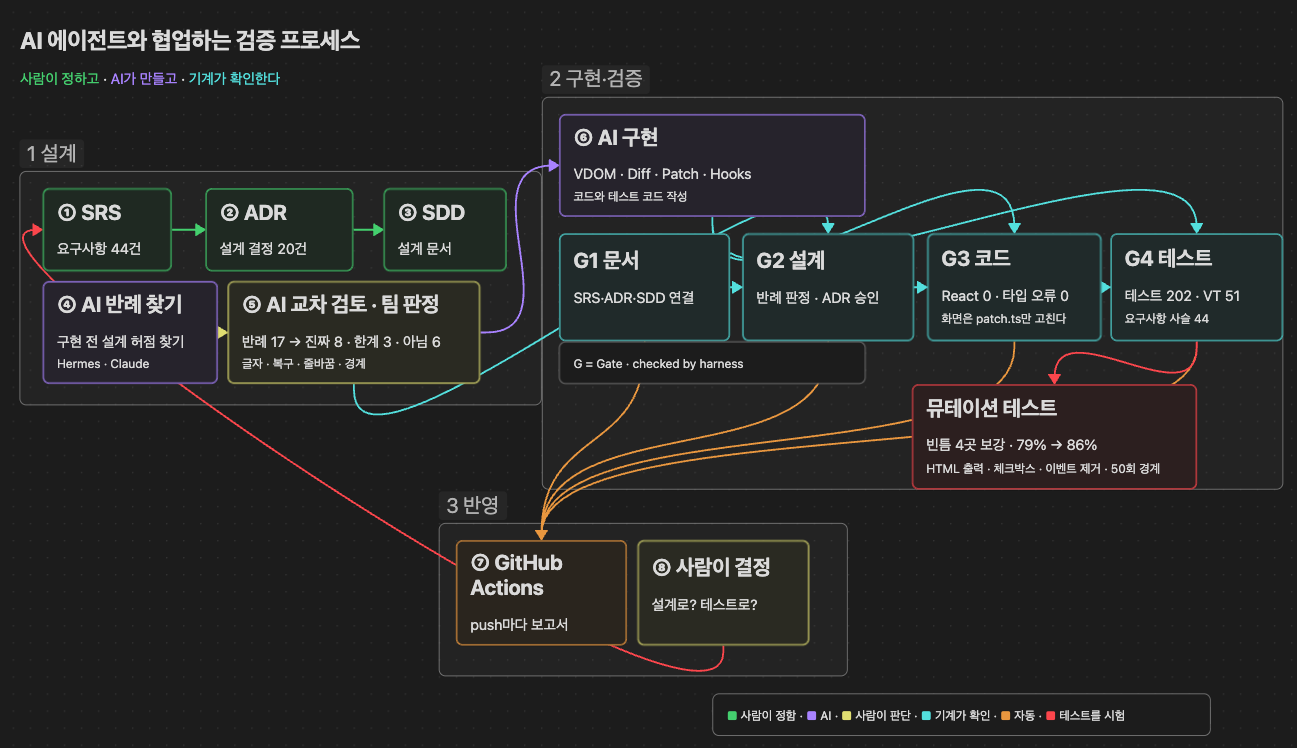
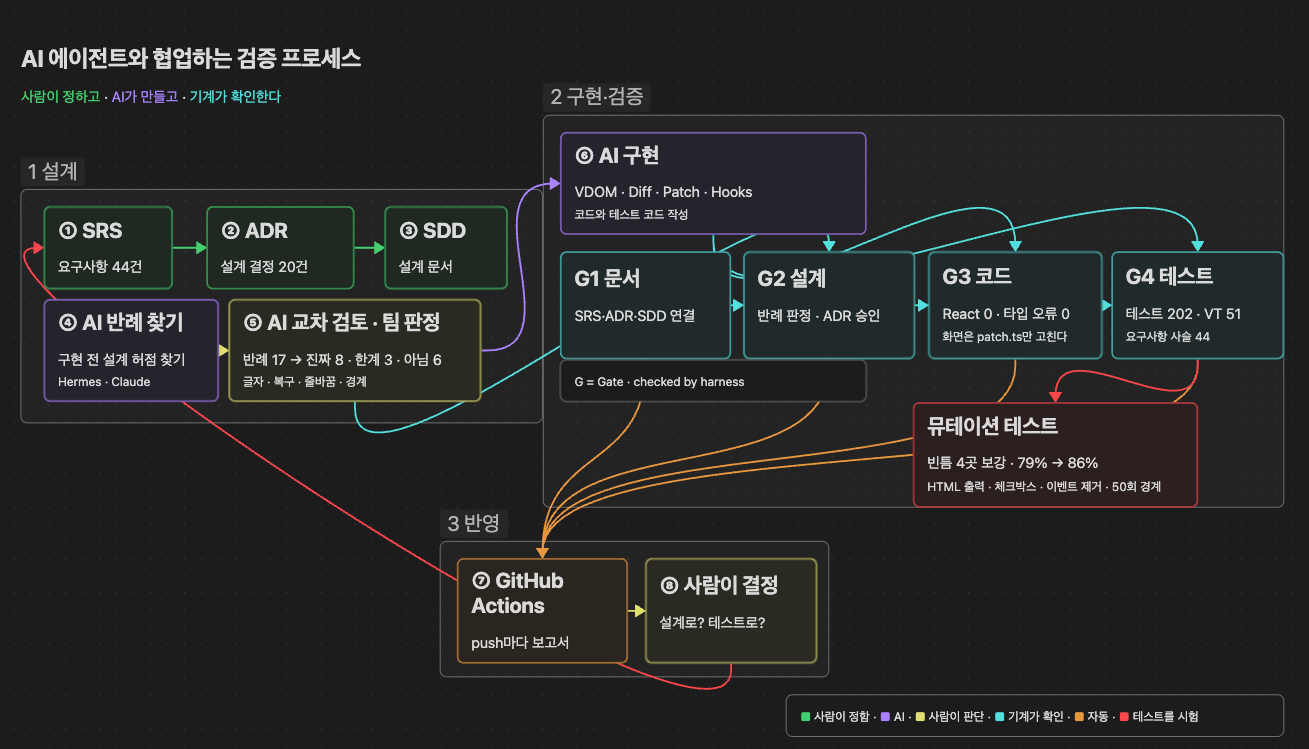
README 검증 프로세스 그림 교체

diff --git a/README.md b/README.md
@@ -153,7 +153,10 @@ flowchart LR
 
 ## 어떻게 검증했나
 
-![AI 에이전트와 협업하는 검증 프로세스](docs/images/verify-loop.png)
+<picture>
+  <source media="(prefers-color-scheme: dark)" srcset="docs/images/verify-loop-dark.png">
+  <img alt="AI 에이전트와 협업하는 검증 프로세스" src="docs/images/verify-loop.png">
+</picture>
 
 "테스트가 통과한다"를 넘어, **요구사항 하나하나가 설계·코드·테스트로 이어지는지**를 기계가 확인하게 만들었습니다. 표준은 IEEE 1012(V&V), ISO/IEC/IEEE 29148(요구사항), IEEE 1016(설계 기술)을 참고했습니다.
 
